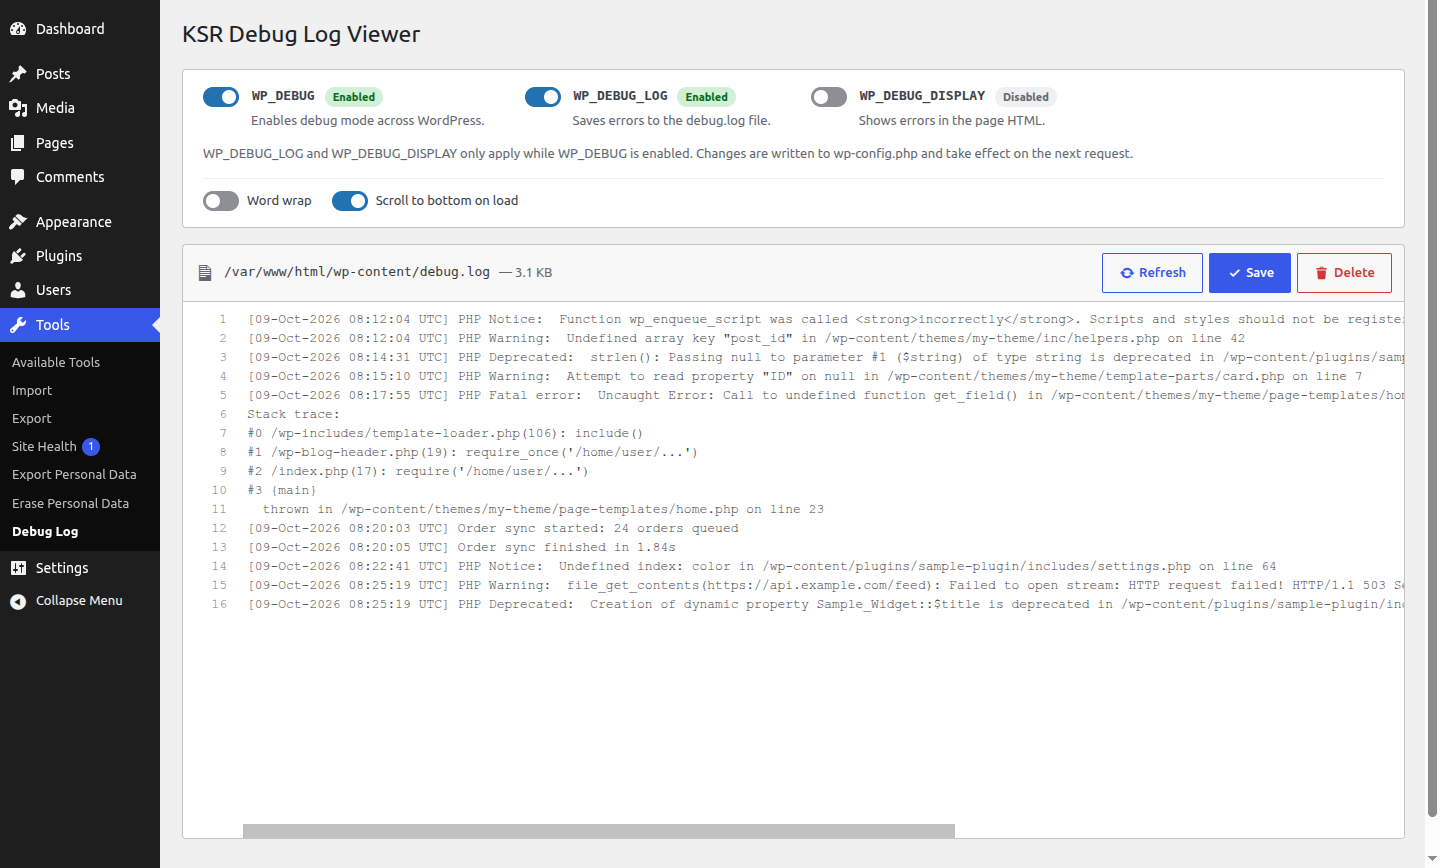
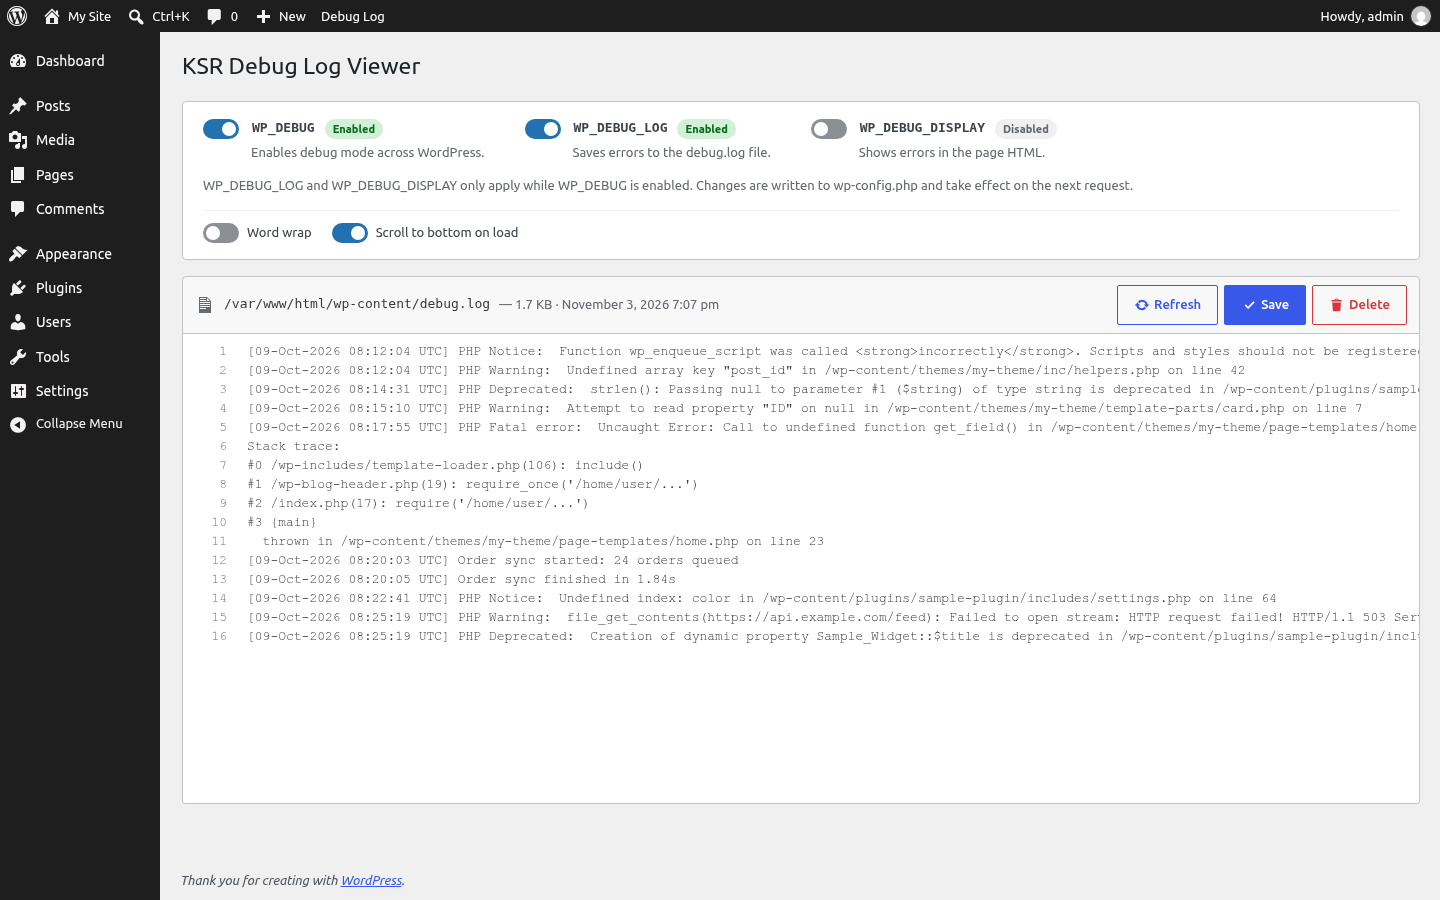
Move Debug Log menu from Tools to the admin bar

Changed region(s): [[0.0, 0.0, 1.0, 0.9332], [0.125, 0.9332, 0.6875, 0.9954], [0.0, 0.6532, 0.0938, 0.7154]]

diff --git a/inc/admin-page.php b/inc/admin-page.php
@@ -7,11 +7,13 @@ if ( ! defined( 'ABSPATH' ) ) exit;
 class Admin_Page {
 
 	const SLUG       = 'ksr-debug-log-viewer';
-	const SCREEN_IDS = array( 'tools_page_ksr-debug-log-viewer', 'settings_page_ksr-debug-log-viewer-network' );
+	// Hidden pages (no parent menu) get the "admin_page_" prefix, and network admin screens the "-network" suffix
+	const SCREEN_IDS = array( 'admin_page_ksr-debug-log-viewer', 'admin_page_ksr-debug-log-viewer-network' );
 
 	public function __construct() {
 		add_action( 'admin_menu', array( $this, 'add_menu' ) );
 		add_action( 'network_admin_menu', array( $this, 'add_network_menu' ) );
+		add_action( 'admin_bar_menu', array( $this, 'add_admin_bar_node' ), 100 );
 	}
 
 	// When network-activated, the page lives only in Network Admin, since the log and wp-config.php are shared by all sites
@@ -29,27 +31,48 @@ class Admin_Page {
 		return current_user_can( self::capability() ) && current_user_can( 'edit_files' );
 	}
 
+	public static function url(): string {
+		$path = 'admin.php?page=' . self::SLUG;
+		return self::is_network_page() ? network_admin_url( $path ) : admin_url( $path );
+	}
+
 	public function add_menu(){
 		if ( self::is_network_page() ) return;
-
-		add_management_page(
-			__( 'KSR Debug Log Viewer', 'ksr-debug-log-viewer' ),
-			__( 'Debug Log', 'ksr-debug-log-viewer' ),
-			self::capability(),
-			self::SLUG,
-			array( $this, 'render' )
-		);
+		$this->register_page();
 	}
 
 	public function add_network_menu(){
-		add_submenu_page(
-			'settings.php',
-			__( 'KSR Debug Log Viewer', 'ksr-debug-log-viewer' ),
+		$this->register_page();
+	}
+
+	// Registered without a parent so it stays out of the sidebar; it is reached from the admin bar instead
+	private function register_page(){
+		$page_title = __( 'KSR Debug Log Viewer', 'ksr-debug-log-viewer' );
+
+		$hook = add_submenu_page(
+			'',
+			$page_title,
 			__( 'Debug Log', 'ksr-debug-log-viewer' ),
 			self::capability(),
 			self::SLUG,
 			array( $this, 'render' )
 		);
+
+		// Core can't find the title of a page outside the menu, which leaves the browser tab title empty
+		add_action( 'load-' . $hook, function() use ( $page_title ) {
+			$GLOBALS['title'] = $page_title;
+		} );
+	}
+
+	// The plugin only loads in wp-admin, so this link never shows on the frontend
+	public function add_admin_bar_node( \WP_Admin_Bar $bar ){
+		if ( !current_user_can( self::capability() ) ) return;
+
+		$bar->add_node( array(
+			'id'    => 'ksrdlv',
+			'title' => esc_html__( 'Debug Log', 'ksr-debug-log-viewer' ),
+			'href'  => self::url(),
+		) );
 	}
 
 	public function render(){

diff --git a/ksr-debug-log-viewer.php b/ksr-debug-log-viewer.php
@@ -2,7 +2,7 @@
 /**
  * Plugin Name: KSR Debug Log Viewer
  * Plugin URI: https://github.com/kowsar89/ksr-debug-log-viewer/
- * Description: View, edit and delete the debug.log file, and toggle WP_DEBUG, WP_DEBUG_LOG and WP_DEBUG_DISPLAY from Tools → Debug Log
+ * Description: View, edit and delete the debug.log file, and toggle WP_DEBUG, WP_DEBUG_LOG and WP_DEBUG_DISPLAY from the Debug Log link in the admin bar
  * Version: 1.0.0
  * Requires PHP: 7.4
  * Author: Kowsar Hossain

diff --git a/README.md b/README.md
@@ -15,12 +15,12 @@ A WordPress plugin to view and manage your `debug.log` right from the admin, no 
 ## How to use
 
 1. Install and activate the plugin.
-2. Go to **Tools → Debug Log**.
+2. Click **Debug Log** in the admin bar at the top of any wp-admin screen.
 
 ## Multisite support
 
 All sites in a network share one `debug.log` and one `wp-config.php`, so the plugin treats them as network-wide:
 
-- **Network-activated:** the page appears only in **Network Admin → Settings → Debug Log**, not in each site's admin.
-- **Activated on a single site:** the page appears under **Tools → Debug Log** on that site.
+- **Network-activated:** the page lives in Network Admin, and the admin bar link on every site's admin leads there.
+- **Activated on a single site:** the page lives in that site's admin.
 - In both cases, only super admins can open the page.
